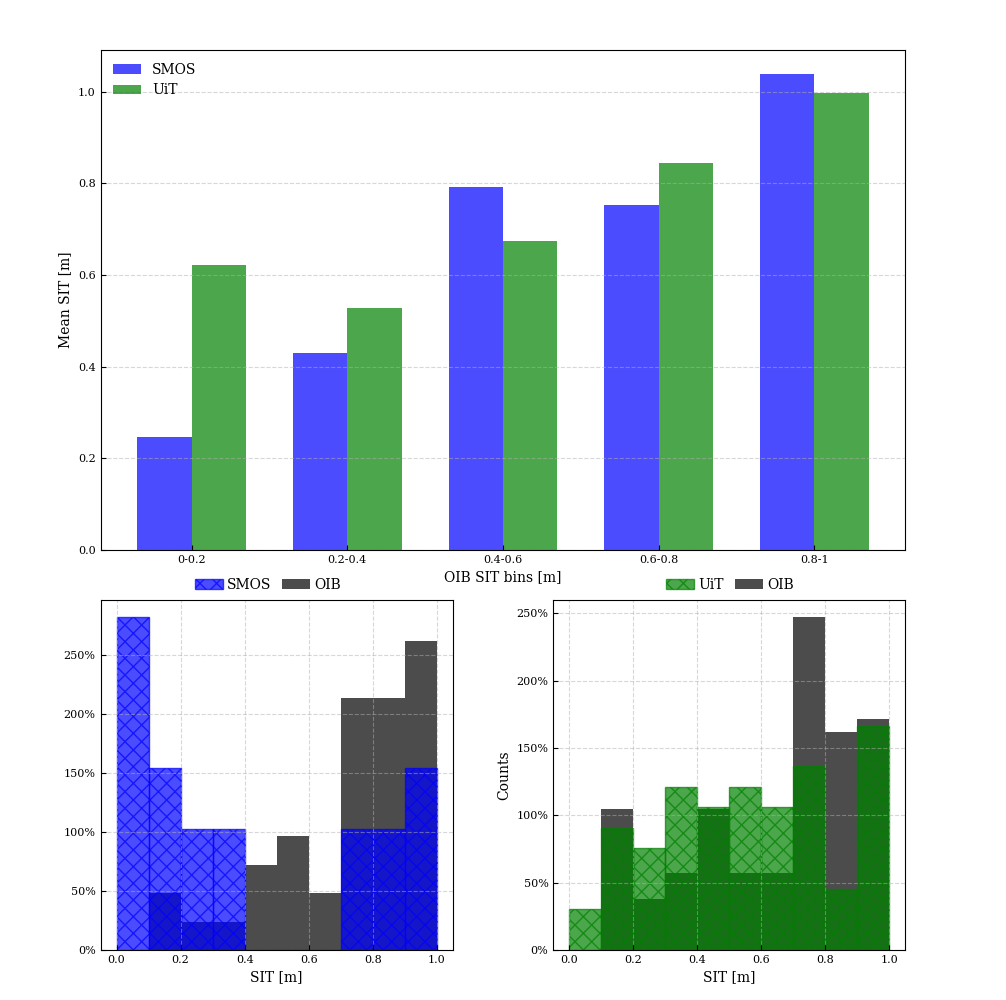
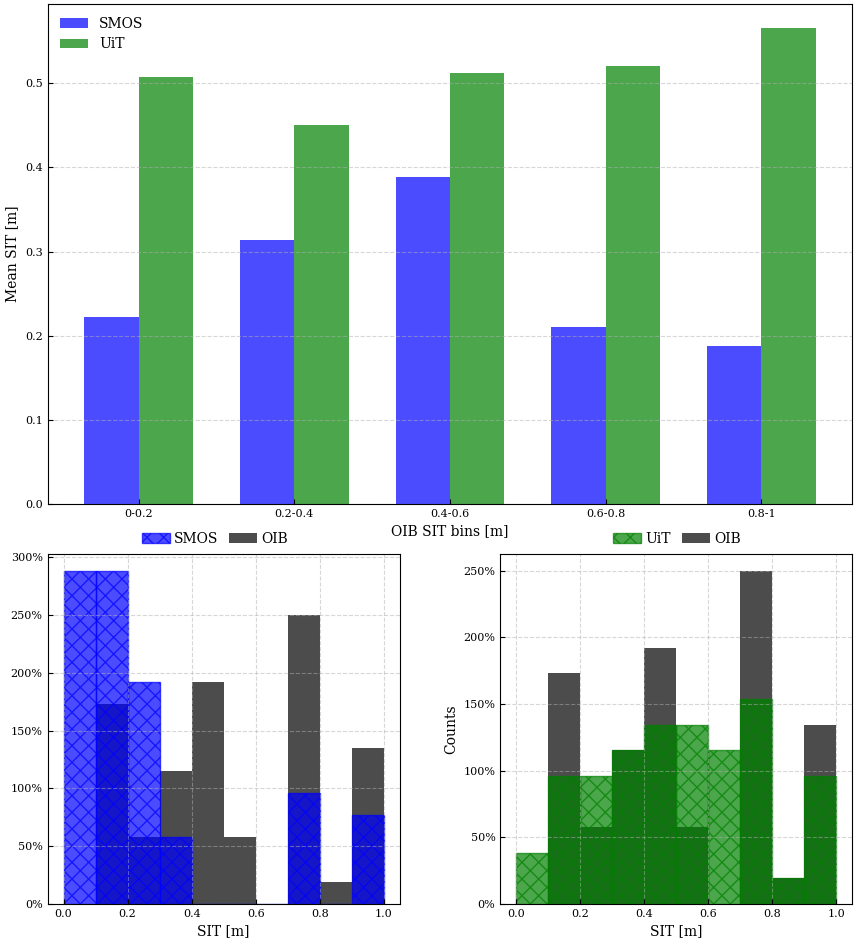
update of DISO calc and range mask (0-1) of OIB

diff --git a/Data processing/Code/Validation code/get_operation_icebridge.py b/Data processing/Code/Validation code/get_operation_icebridge.py
@@ -459,17 +459,18 @@ def bar_hist_plot(data):
 	nan_mask = ~np.isnan(oib) & ~np.isnan(smos) & ~np.isnan(cryo)
 	oib, smos, cryo = [arr[nan_mask] for arr in (oib, smos, cryo)]
 
-	cryo_mask = (cryo >= 0) & (cryo <= 1.4)
-	cryo = cryo[cryo_mask]
-	oib_c = oib[cryo_mask]
+	pr_range_mask = (cryo >= 0) & (cryo <= 1) & (smos >= 0) & (smos <= 1)
+	cryo = cryo[pr_range_mask]
+	smos = smos[pr_range_mask]
+	oib = oib[pr_range_mask]
  
 	smos_means = []
 	cryo_means = []
 	for i in range(len(bins)-1): #
 		bin_mask = (oib >= bins[i]) & (oib < bins[i+1])
-		bin_mask_cryo = (oib_c >= bins[i]) & (oib_c < bins[i + 1])
+		#bin_mask_cryo = (oib_c >= bins[i]) & (oib_c < bins[i + 1])
 		smos_means.append(np.mean(smos[bin_mask])) 
-		cryo_means.append(np.mean(cryo[bin_mask_cryo]))
+		cryo_means.append(np.mean(cryo[bin_mask]))
 
 	# Set up the figure with one main plot and two smaller plots
 	fig = plt.figure(figsize=(10, 10))
@@ -501,13 +502,13 @@ def bar_hist_plot(data):
  
 	# histogram mask
 	range_mask = (oib >= 0) & (oib <= 1) 
-	range_mask_c = (oib_c >= 0) & (oib_c <= 1)
-	oib_m, smos_m, cryo_m = oib[range_mask], smos[range_mask], cryo[range_mask_c]
-	oib_m_c = oib_c[range_mask_c]
+	#range_mask_c = (oib_c >= 0) & (oib_c <= 1)
+	oib_m, smos_m, cryo_m = oib[range_mask], smos[range_mask], cryo[range_mask]
+	#oib_m_c = oib_c[range_mask_c]
 	bin_edges=np.linspace(0,1,11)
  
 	# --- Bottom right plot: Histogram OIB vs Cryo ---
-	ax_right.hist(oib_m_c, bins=bin_edges, alpha=0.7, label='OIB', color='black', density=True)
+	ax_right.hist(oib_m, bins=bin_edges, alpha=0.7, label='OIB', color='black', density=True)
 	ax_right.hist(cryo_m, bins=bin_edges, edgecolor='green', color="green", fill=True, linewidth=1, hatch='xx', alpha=0.7, label='UiT', density=True)
 	ax_right.tick_params(axis='both', direction='in')
 	ax_right.set_xlabel('SIT [m]')
@@ -547,17 +548,16 @@ def box_plot(data):
 	nan_mask = ~np.isnan(oib) & ~np.isnan(smos) & ~np.isnan(cryo)
 	oib, smos, cryo = [arr[nan_mask] for arr in (oib, smos, cryo)]
 	
-	cryo_mask = (cryo >= 0) & (cryo <= 1.4)
-	cryo = cryo[cryo_mask]
-	oib_c = oib[cryo_mask]
+	pr_range_mask = (cryo >= 0) & (cryo <= 1) & (smos >= 0) & (smos <= 1)
+	cryo = cryo[pr_range_mask]
+	smos = smos[pr_range_mask]
+	oib = oib[pr_range_mask]
  
 	# Bin
 	binned_oib_cryo_data, binned_oib_smos_data = [], []
 	for i in range(len(bins) - 1):
 		bin_mask = (oib >= bins[i]) & (oib < bins[i + 1])
-		#bin_mask_smos = (oib_smos >= bins[i]) & (oib_smos < bins[i+1])
-		bin_mask_cryo = (oib_c >= bins[i]) & (oib_c < bins[i + 1])
-		binned_oib_cryo_data.append(cryo[bin_mask_cryo])
+		binned_oib_cryo_data.append(cryo[bin_mask])
 		binned_oib_smos_data.append(smos[bin_mask])
   
 	# --- Plot ---
@@ -620,15 +620,15 @@ def heat_map(data):
 	nan_mask = ~np.isnan(oib) & ~np.isnan(smos) & ~np.isnan(cryo)
 	oib, smos, cryo = [arr[nan_mask] for arr in (oib, smos, cryo)]
  
-	cryo_mask = (cryo >= 0) & (cryo <= 1.4)
-	cryo = cryo[cryo_mask]
-	oib_c = oib[cryo_mask]
+	pr_range_mask = (cryo >= 0) & (cryo <= 1) & (smos >= 0) & (smos <= 1)
+	cryo = cryo[pr_range_mask]
+	smos = smos[pr_range_mask]
+	oib = oib[pr_range_mask]
  
 	mean_difference = np.zeros((len(satellite_products), len(bins) - 1))
 	for i in range(len(bins) - 1):
 		bin_mask = (oib >= bins[i]) & (oib < bins[i + 1])
-		bin_mask_cryo = (oib_c >= bins[i]) & (oib_c < bins[i + 1])
-		mean_difference[0, i] = np.mean(cryo[bin_mask_cryo]) - np.mean(oib_c[bin_mask_cryo])
+		mean_difference[0, i] = np.mean(cryo[bin_mask]) - np.mean(oib[bin_mask])
 		mean_difference[1, i] = np.mean(smos[bin_mask]) - np.mean(oib[bin_mask])
   
 	plt.figure(figsize=(10,5))
@@ -650,9 +650,10 @@ def stat_matrics_all(data):
 	nan_mask = ~np.isnan(oib) & ~np.isnan(smos) & ~np.isnan(cryo)
 	oib, smos, cryo = [arr[nan_mask] for arr in (oib, smos, cryo)]
  
-	cryo_mask = (cryo >= 0) & (cryo <= 1.4)
-	cryo = cryo[cryo_mask]
-	oib_c = oib[cryo_mask]
+	pr_range_mask = (cryo >= 0) & (cryo <= 1) & (smos >= 0) & (smos <= 1)
+	cryo = cryo[pr_range_mask]
+	smos = smos[pr_range_mask]
+	oib = oib[pr_range_mask]
 
 	bins = [0, 0.2, 0.4, 0.6, 0.8, 1]
 	labels = ['0-0.2', '0.2-0.4', '0.4-0.6', '0.6-0.8', '0.8-1']
@@ -667,7 +668,7 @@ def stat_matrics_all(data):
 
 		# mask for this bin
 		bin_mask = (oib >= lo) & (oib < hi)
-		bin_mask_cryo = (oib_c >= lo) & (oib_c < hi)
+		#bin_mask_cryo = (oib_c >= lo) & (oib_c < hi)
 
 		if not np.any(bin_mask):
 			# fill NaNs if empty
@@ -681,15 +682,14 @@ def stat_matrics_all(data):
 
 		oib_bin = oib[bin_mask]
 		smos_bin = smos[bin_mask]
-		cryo_bin = cryo[bin_mask_cryo]
-		oib_cryo_bin = oib_c[bin_mask_cryo]
+		cryo_bin = cryo[bin_mask]
 
 		arrs = {
 			'UiT': cryo_bin,
 			'SMOS': smos_bin
 		}
 		oib_for_product = {
-			'UiT': oib_cryo_bin,
+			'UiT': oib_bin,
 			'SMOS': oib_bin
 		}
   
@@ -702,7 +702,7 @@ def stat_matrics_all(data):
 			raw[p] = dict(bias=b, rmse=r, cc=c)
    
 		# normalize each metric across products in this bin
-		for metric in ('bias','rmse','cc'):
+		for metric in ('bias','rmse'):
 			vals = np.array([ raw[p][metric] for p in products ])
 			mn, mx = vals.min(), vals.max()
 			span = (mx - mn) if mx!=mn else 1.0
@@ -713,7 +713,7 @@ def stat_matrics_all(data):
 		for p in products:
 			NB = raw[p]['Nbias']
 			NR = raw[p]['Nrmse']
-			NC = raw[p]['Ncc']
+			NC = raw[p]['cc']
 			raw[p]['DISO'] = np.sqrt(NB**2 + NR**2 + (NC - 1.0)**2)
 			# store
 			results[p][label] = raw[p]
@@ -738,12 +738,13 @@ def stat_matrics_comp(data):
 	nan_mask = ~np.isnan(oib) & ~np.isnan(smos) & ~np.isnan(cryo)
 	oib, smos, cryo = [arr[nan_mask] for arr in (oib, smos, cryo)]
  
-	cryo_mask = (cryo >= 0) & (cryo <= 1.4)
-	cryo = cryo[cryo_mask]
-	oib_c = oib[cryo_mask]
+	pr_range_mask = (cryo >= 0) & (cryo <= 1) & (smos >= 0) & (smos <= 1)
+	cryo = cryo[pr_range_mask]
+	smos = smos[pr_range_mask]
+	oib = oib[pr_range_mask]
 
-	bins = [0.0, 0.4, 1.0]
-	labels = ['0-0.4', '0.4-1.0']
+	bins = [0, 0.4, 1]
+	labels = ['0.0-0.4', '0.4-1']
  
 	products = {'UiT': cryo, "SMOS": smos}
 	results = {p: {} for p in products}
@@ -755,7 +756,7 @@ def stat_matrics_comp(data):
 
 		# mask for this bin
 		bin_mask = (oib >= lo) & (oib < hi)
-		bin_mask_cryo = (oib_c >= lo) & (oib_c < hi)
+		#bin_mask_cryo = (oib_c >= lo) & (oib_c < hi)
 
 		if not np.any(bin_mask):
 			# fill NaNs if empty
@@ -769,15 +770,14 @@ def stat_matrics_comp(data):
 
 		oib_bin = oib[bin_mask]
 		smos_bin = smos[bin_mask]
-		cryo_bin = cryo[bin_mask_cryo]
-		oib_cryo_bin = oib_c[bin_mask_cryo]
+		cryo_bin = cryo[bin_mask]
 
 		arrs = {
 			'UiT': cryo_bin,
 			'SMOS': smos_bin
 		}
 		oib_for_product = {
-			'UiT': oib_cryo_bin,
+			'UiT': oib_bin,
 			'SMOS': oib_bin
 		}
   
@@ -790,7 +790,7 @@ def stat_matrics_comp(data):
 			raw[p] = dict(bias=b, rmse=r, cc=c)
    
 		# normalize each metric across products in this bin
-		for metric in ('bias','rmse','cc'):
+		for metric in ('bias','rmse'):
 			vals = np.array([ raw[p][metric] for p in products ])
 			mn, mx = vals.min(), vals.max()
 			span = (mx - mn) if mx!=mn else 1.0
@@ -801,7 +801,7 @@ def stat_matrics_comp(data):
 		for p in products:
 			NB = raw[p]['Nbias']
 			NR = raw[p]['Nrmse']
-			NC = raw[p]['Ncc']
+			NC = raw[p]['cc']
 			raw[p]['DISO'] = np.sqrt(NB**2 + NR**2 + (NC - 1.0)**2)
 			# store
 			results[p][label] = raw[p]
@@ -811,7 +811,6 @@ def stat_matrics_comp(data):
 		for bin_label, m in bins.items():
 			print(f"  {bin_label}: Bias={m['bias']:.3f}, RMSE={m['rmse']:.3f}, "
 				  f"CC={m['cc']:.3f}, DISO={m['DISO']:.3f}")
-
 
 
 
@@ -828,5 +827,5 @@ if __name__ == "__main__":
 	#bar_hist_plot(resampled_data)
 	#box_plot(resampled_data)
 	#heat_map(resampled_data)
-	stat_matrics_all(resampled_data)
+	#stat_matrics_all(resampled_data)
 	stat_matrics_comp(resampled_data)
